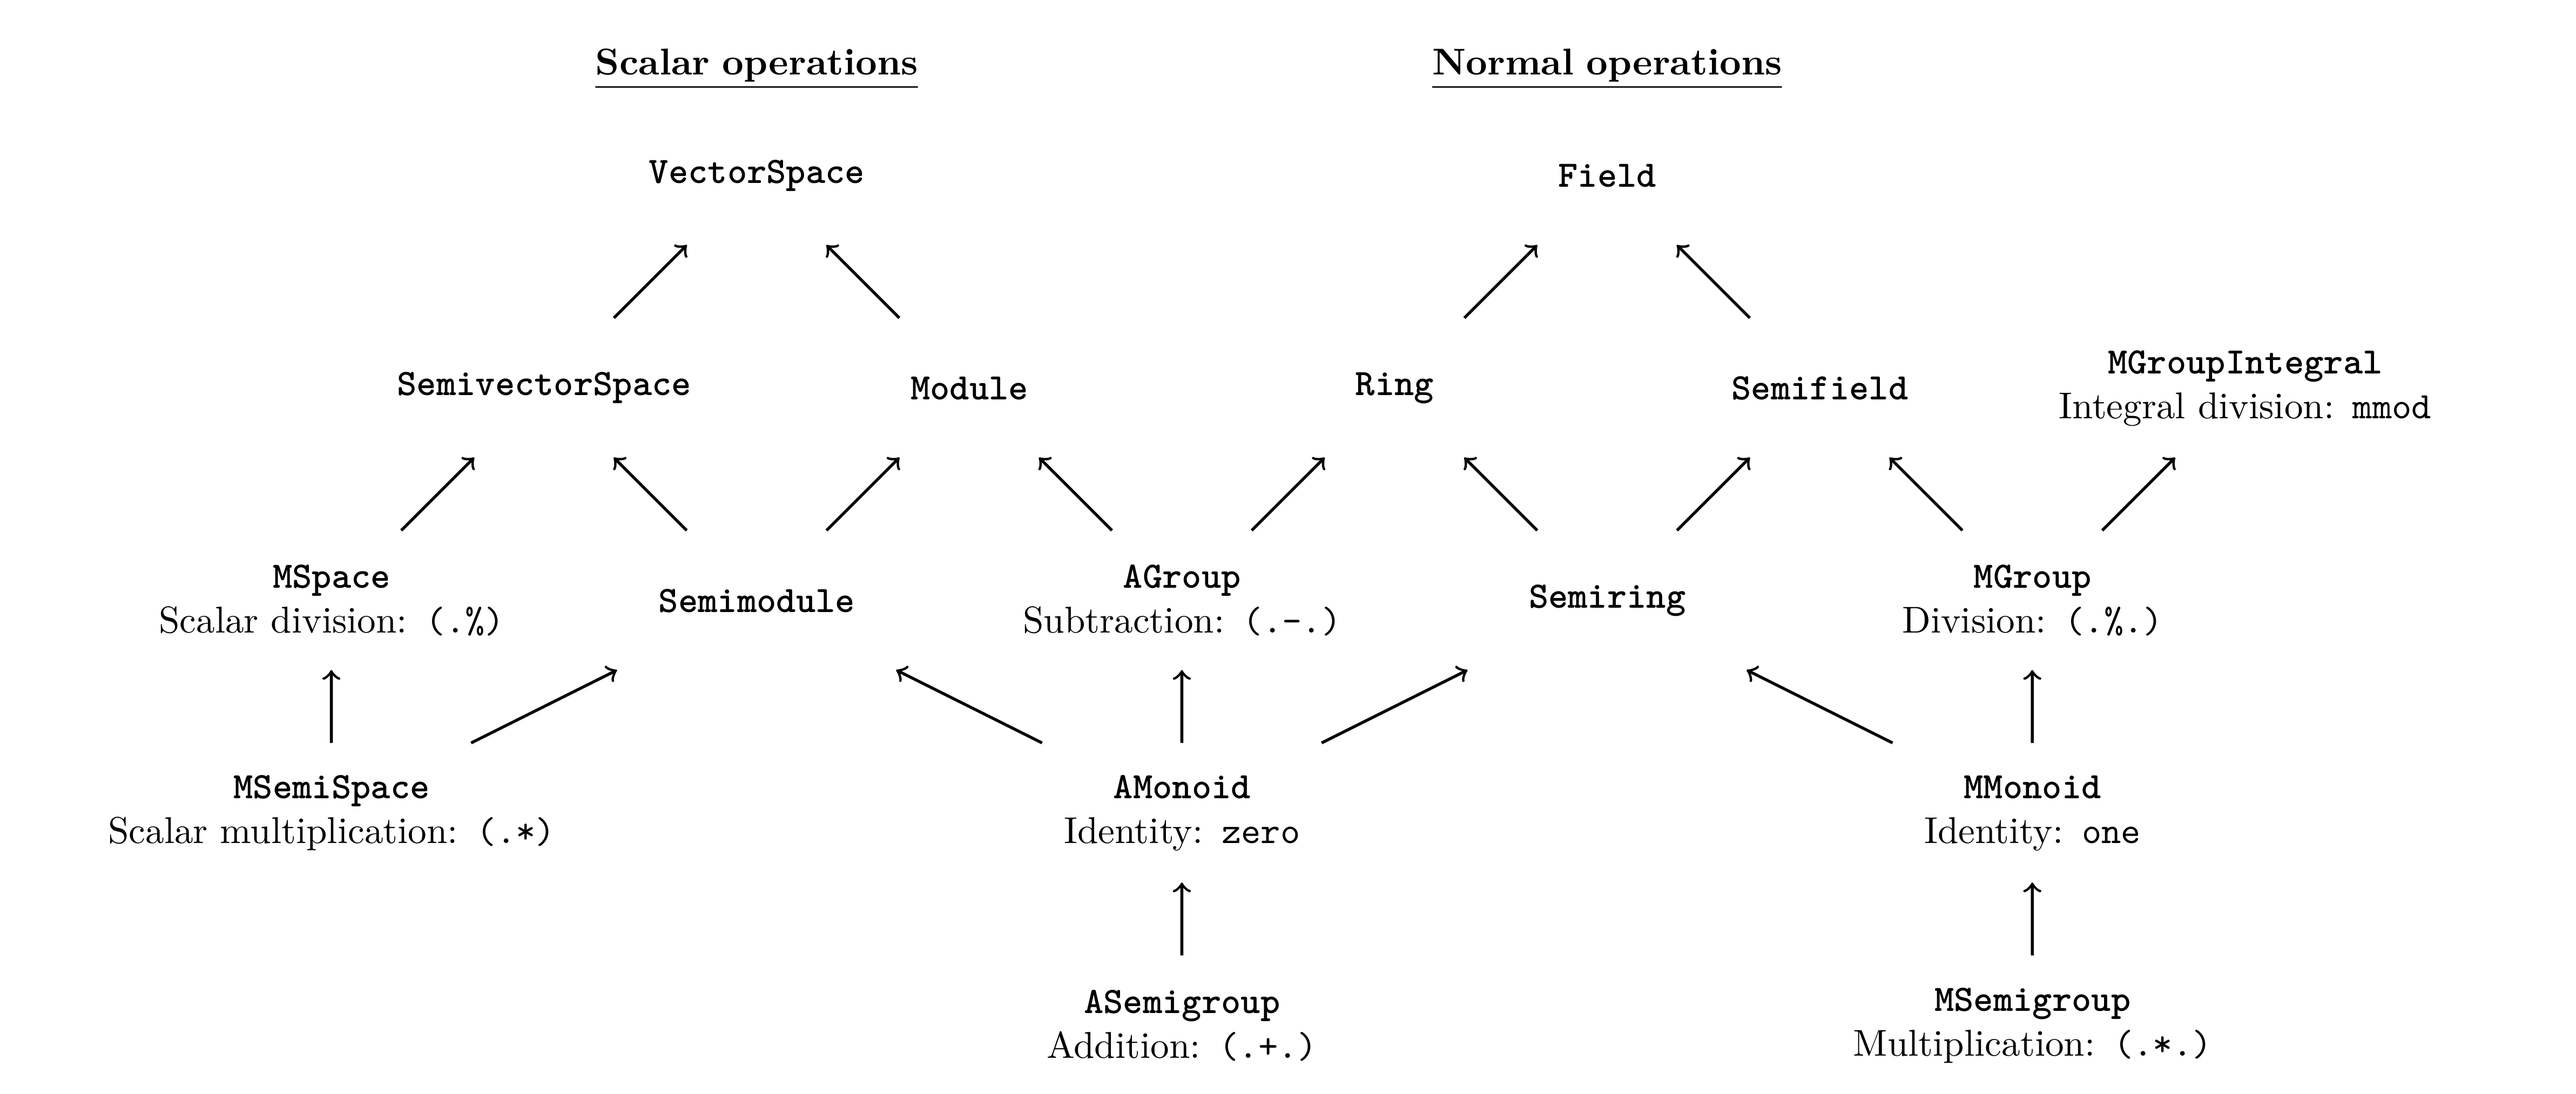
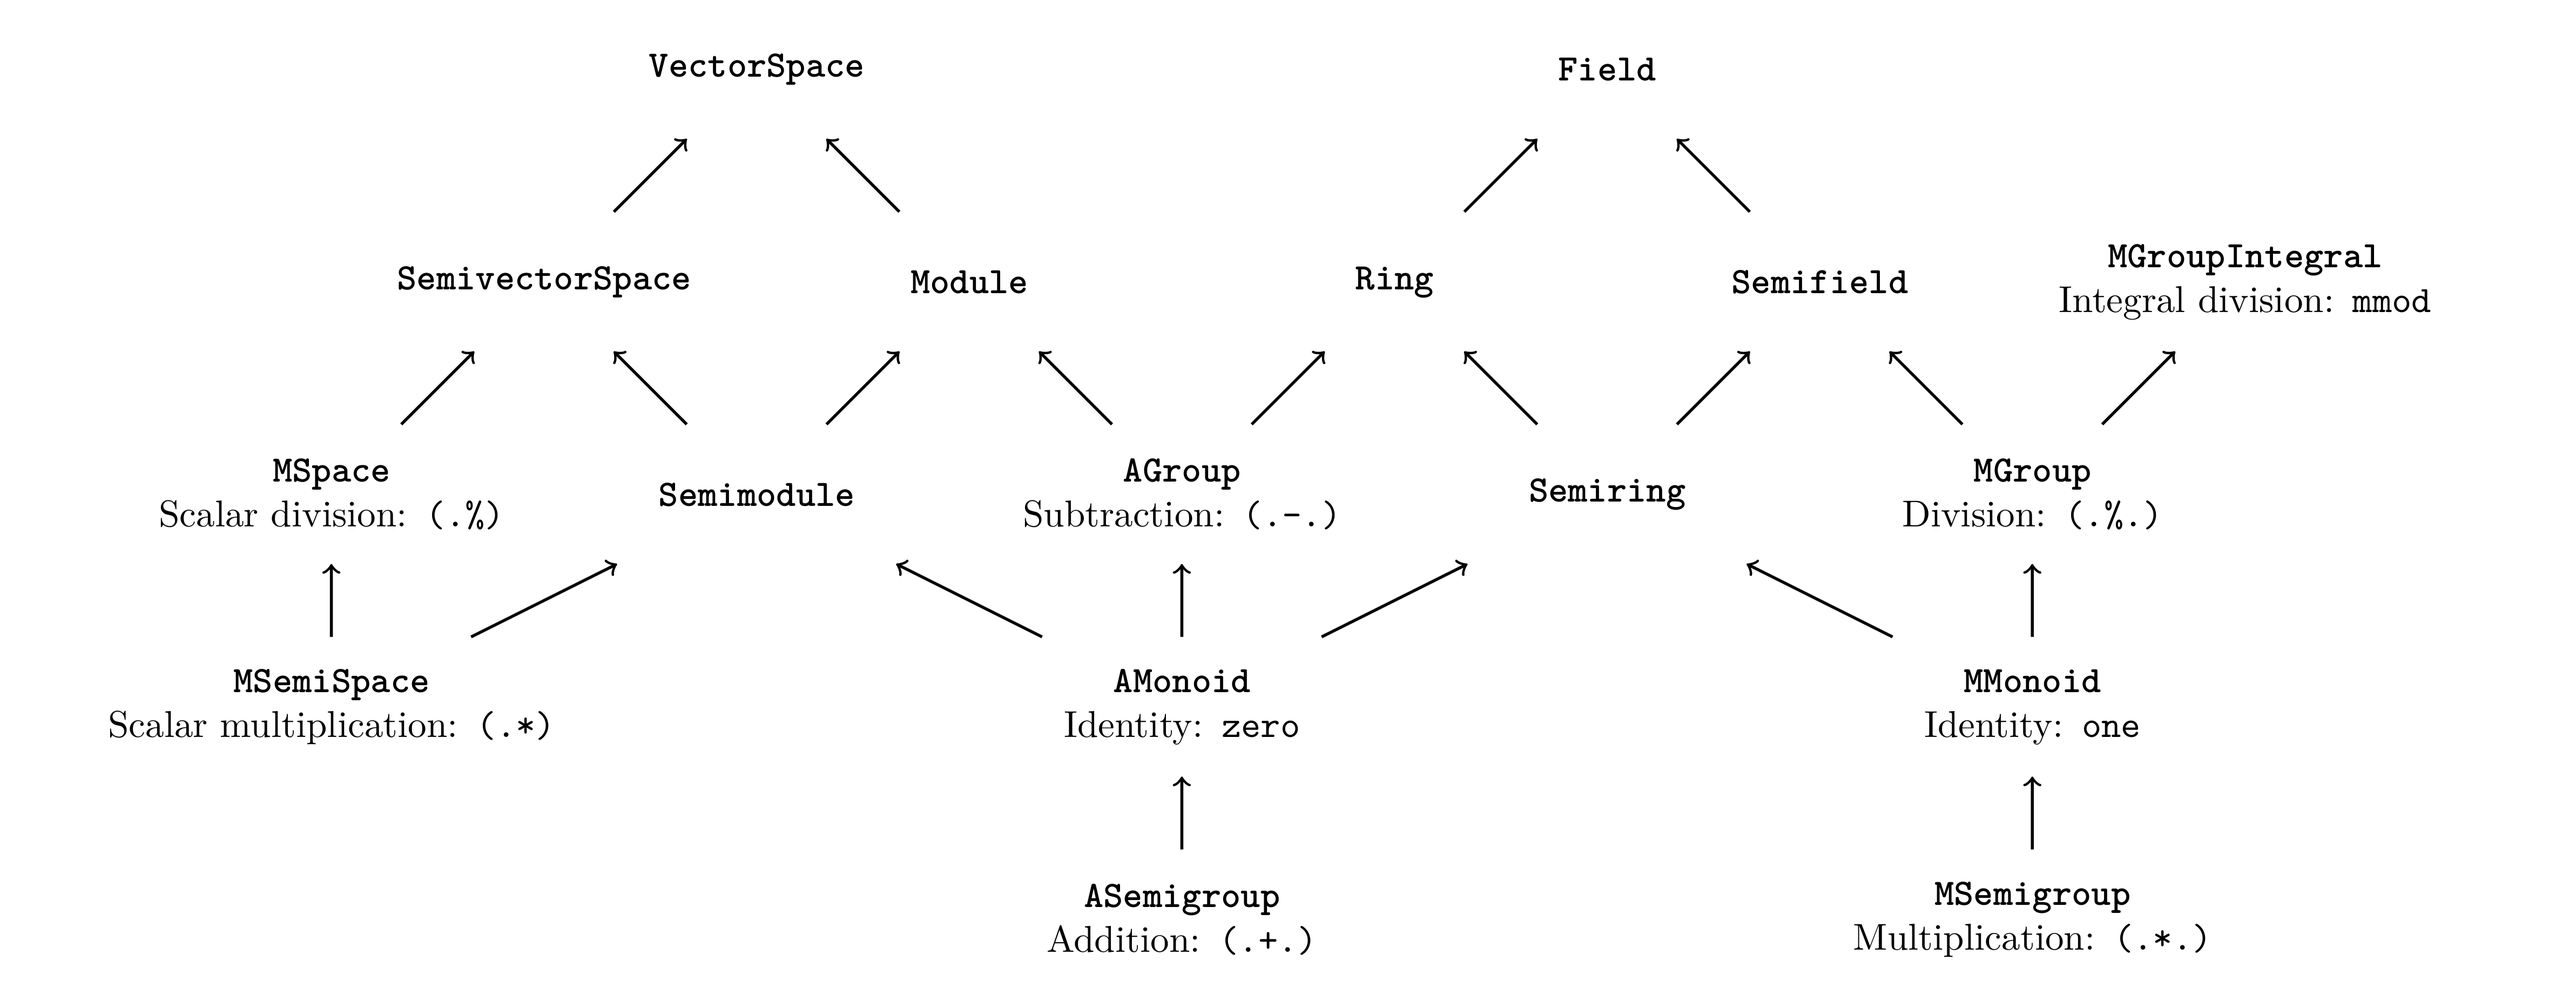
Remove misleading titles from tex diagram

diff --git a/diagrams/hierarchy.tex b/diagrams/hierarchy.tex
@@ -51,7 +51,6 @@ line/.style={-latex}
   \draw[thick, ->] (semiring) -- (semifield);
 
   % field
-  \node[plain] (ftitle) at (12,9) {\ulbf{Normal operations}};
   \node[plain] (field)  at (12,8) {\bftt{Field}};
   \draw[thick, ->] (ring)      -- (field);
   \draw[thick, ->] (semifield) -- (field);
@@ -75,7 +74,6 @@ line/.style={-latex}
   \draw[thick, ->] (mspace)     -- (semivectorspace);
 
   %vectorspace
-  \node[plain] (vstitle)     at (4,9) {\ulbf{Scalar operations}};
   \node[plain] (vectorspace) at (4,8) {\bftt{VectorSpace}};
   \draw[thick, ->] (module)          -- (vectorspace);
   \draw[thick, ->] (semivectorspace) -- (vectorspace);
